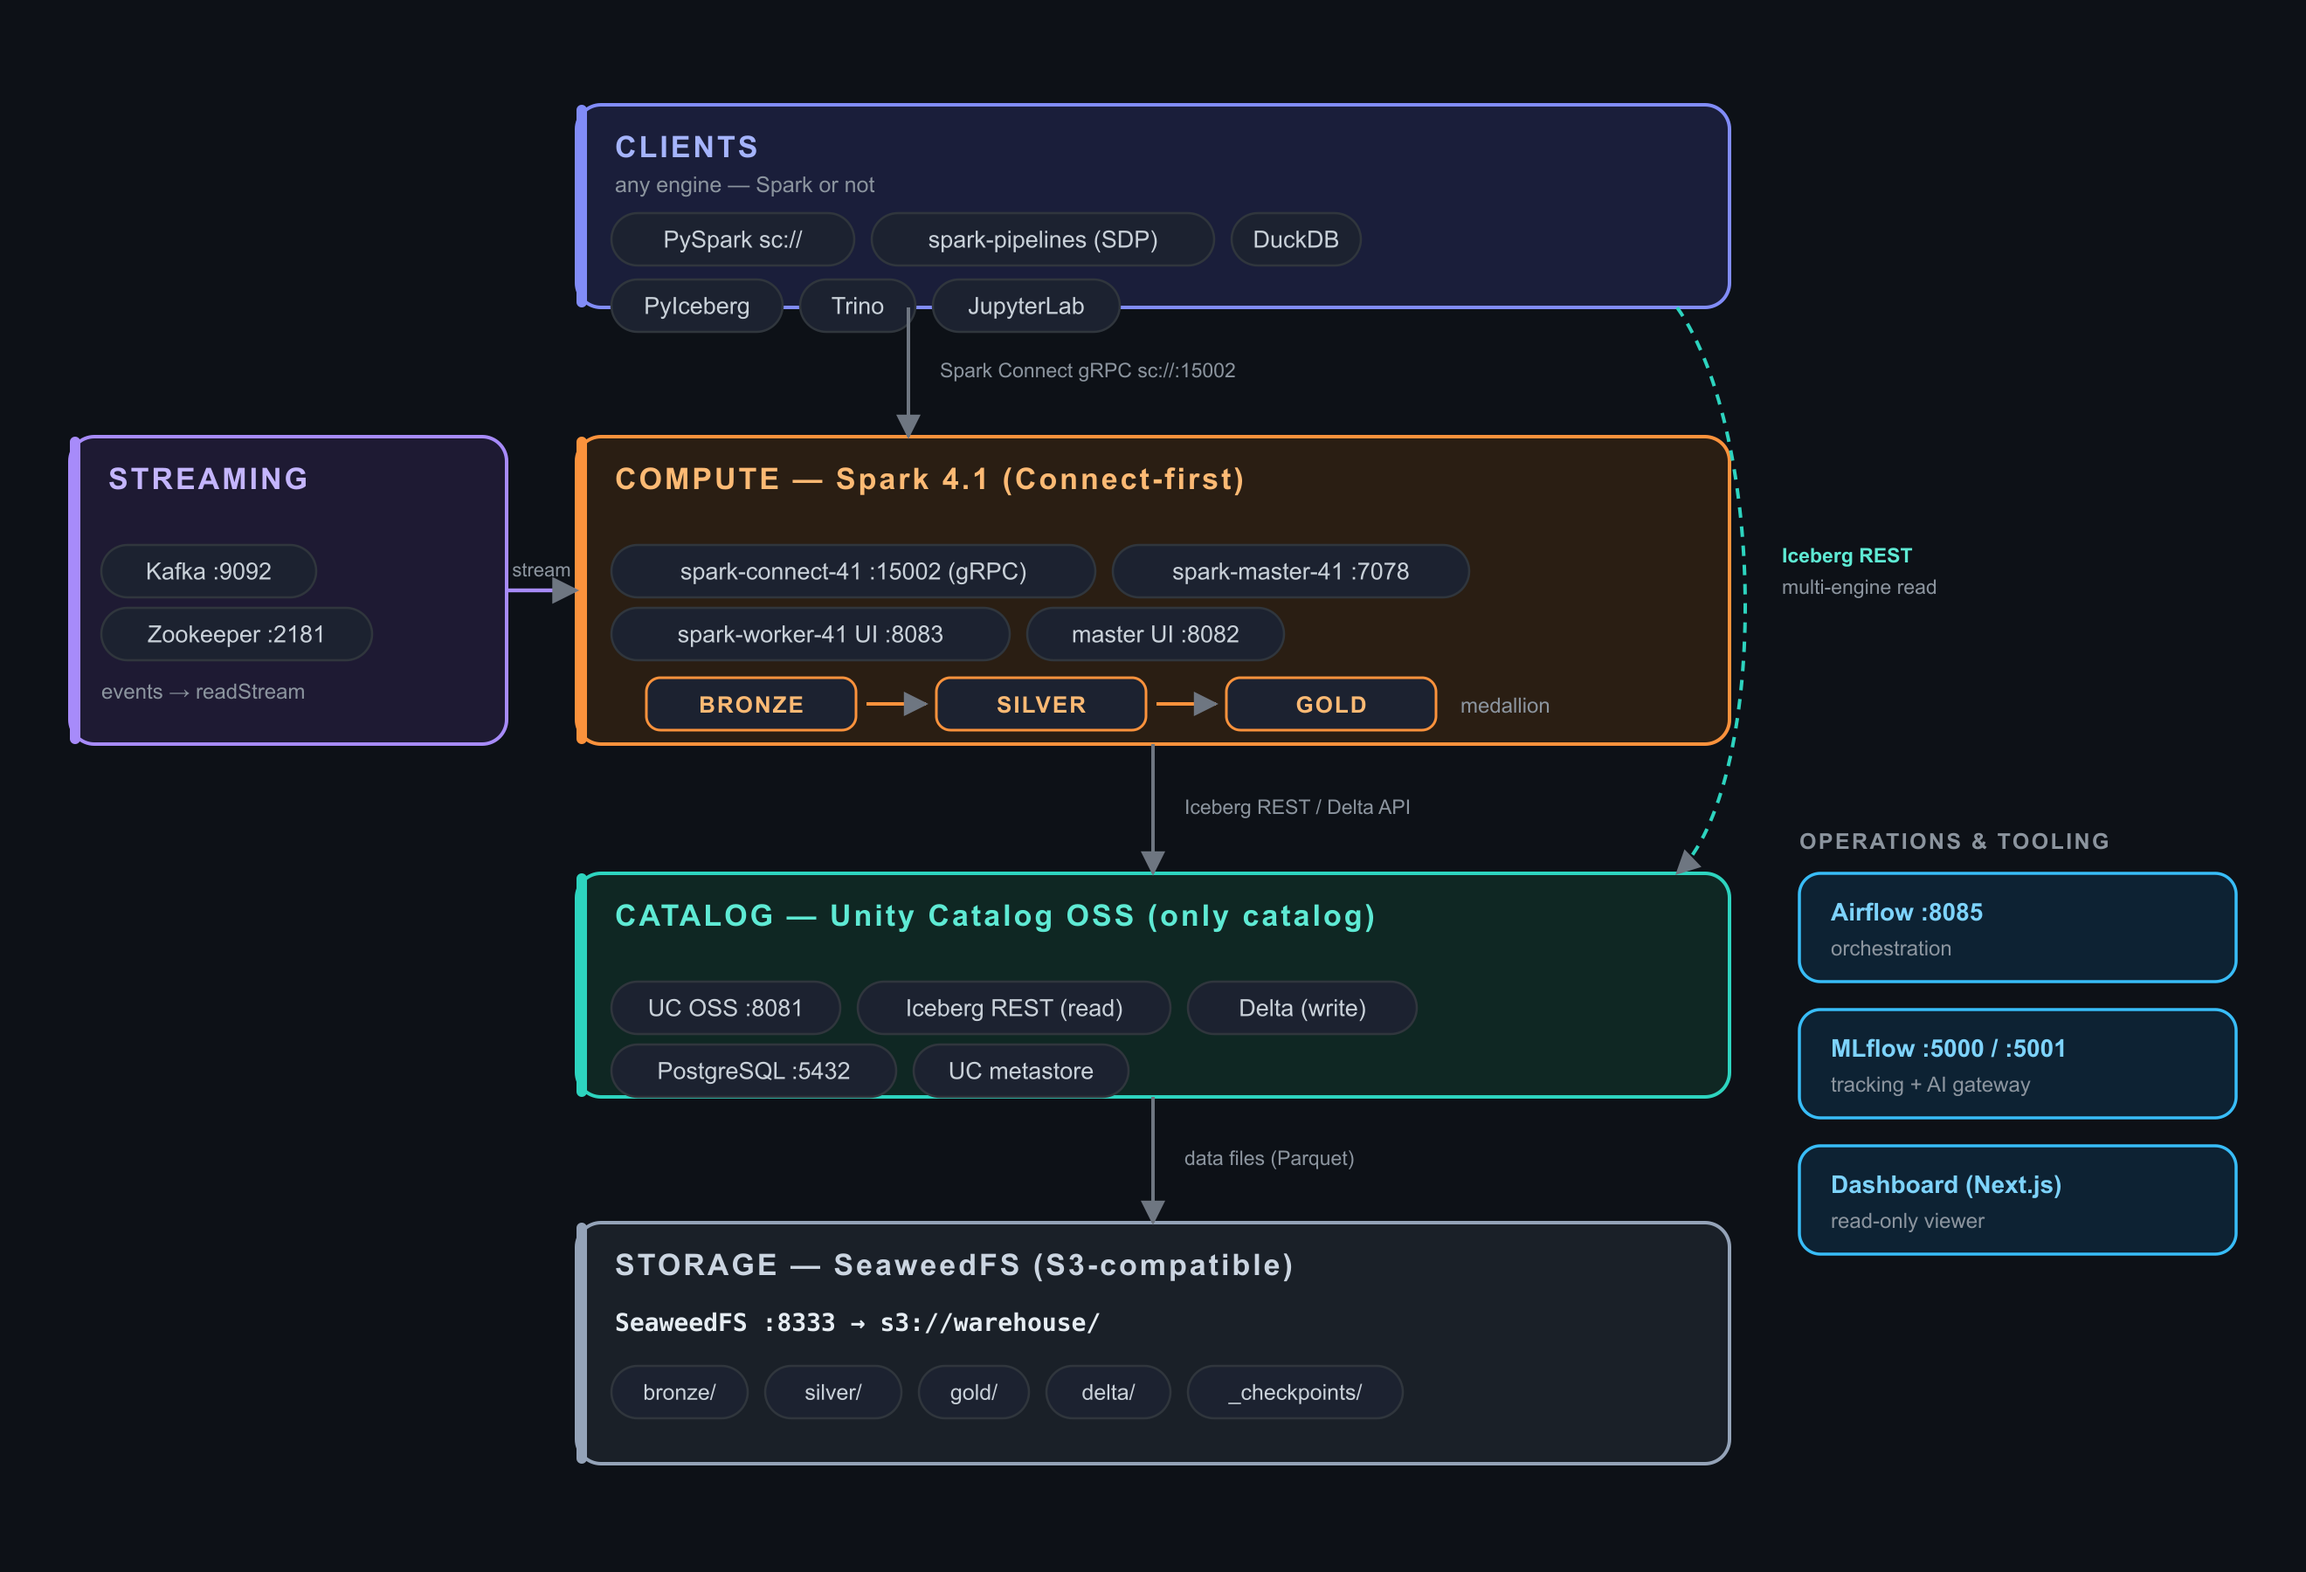
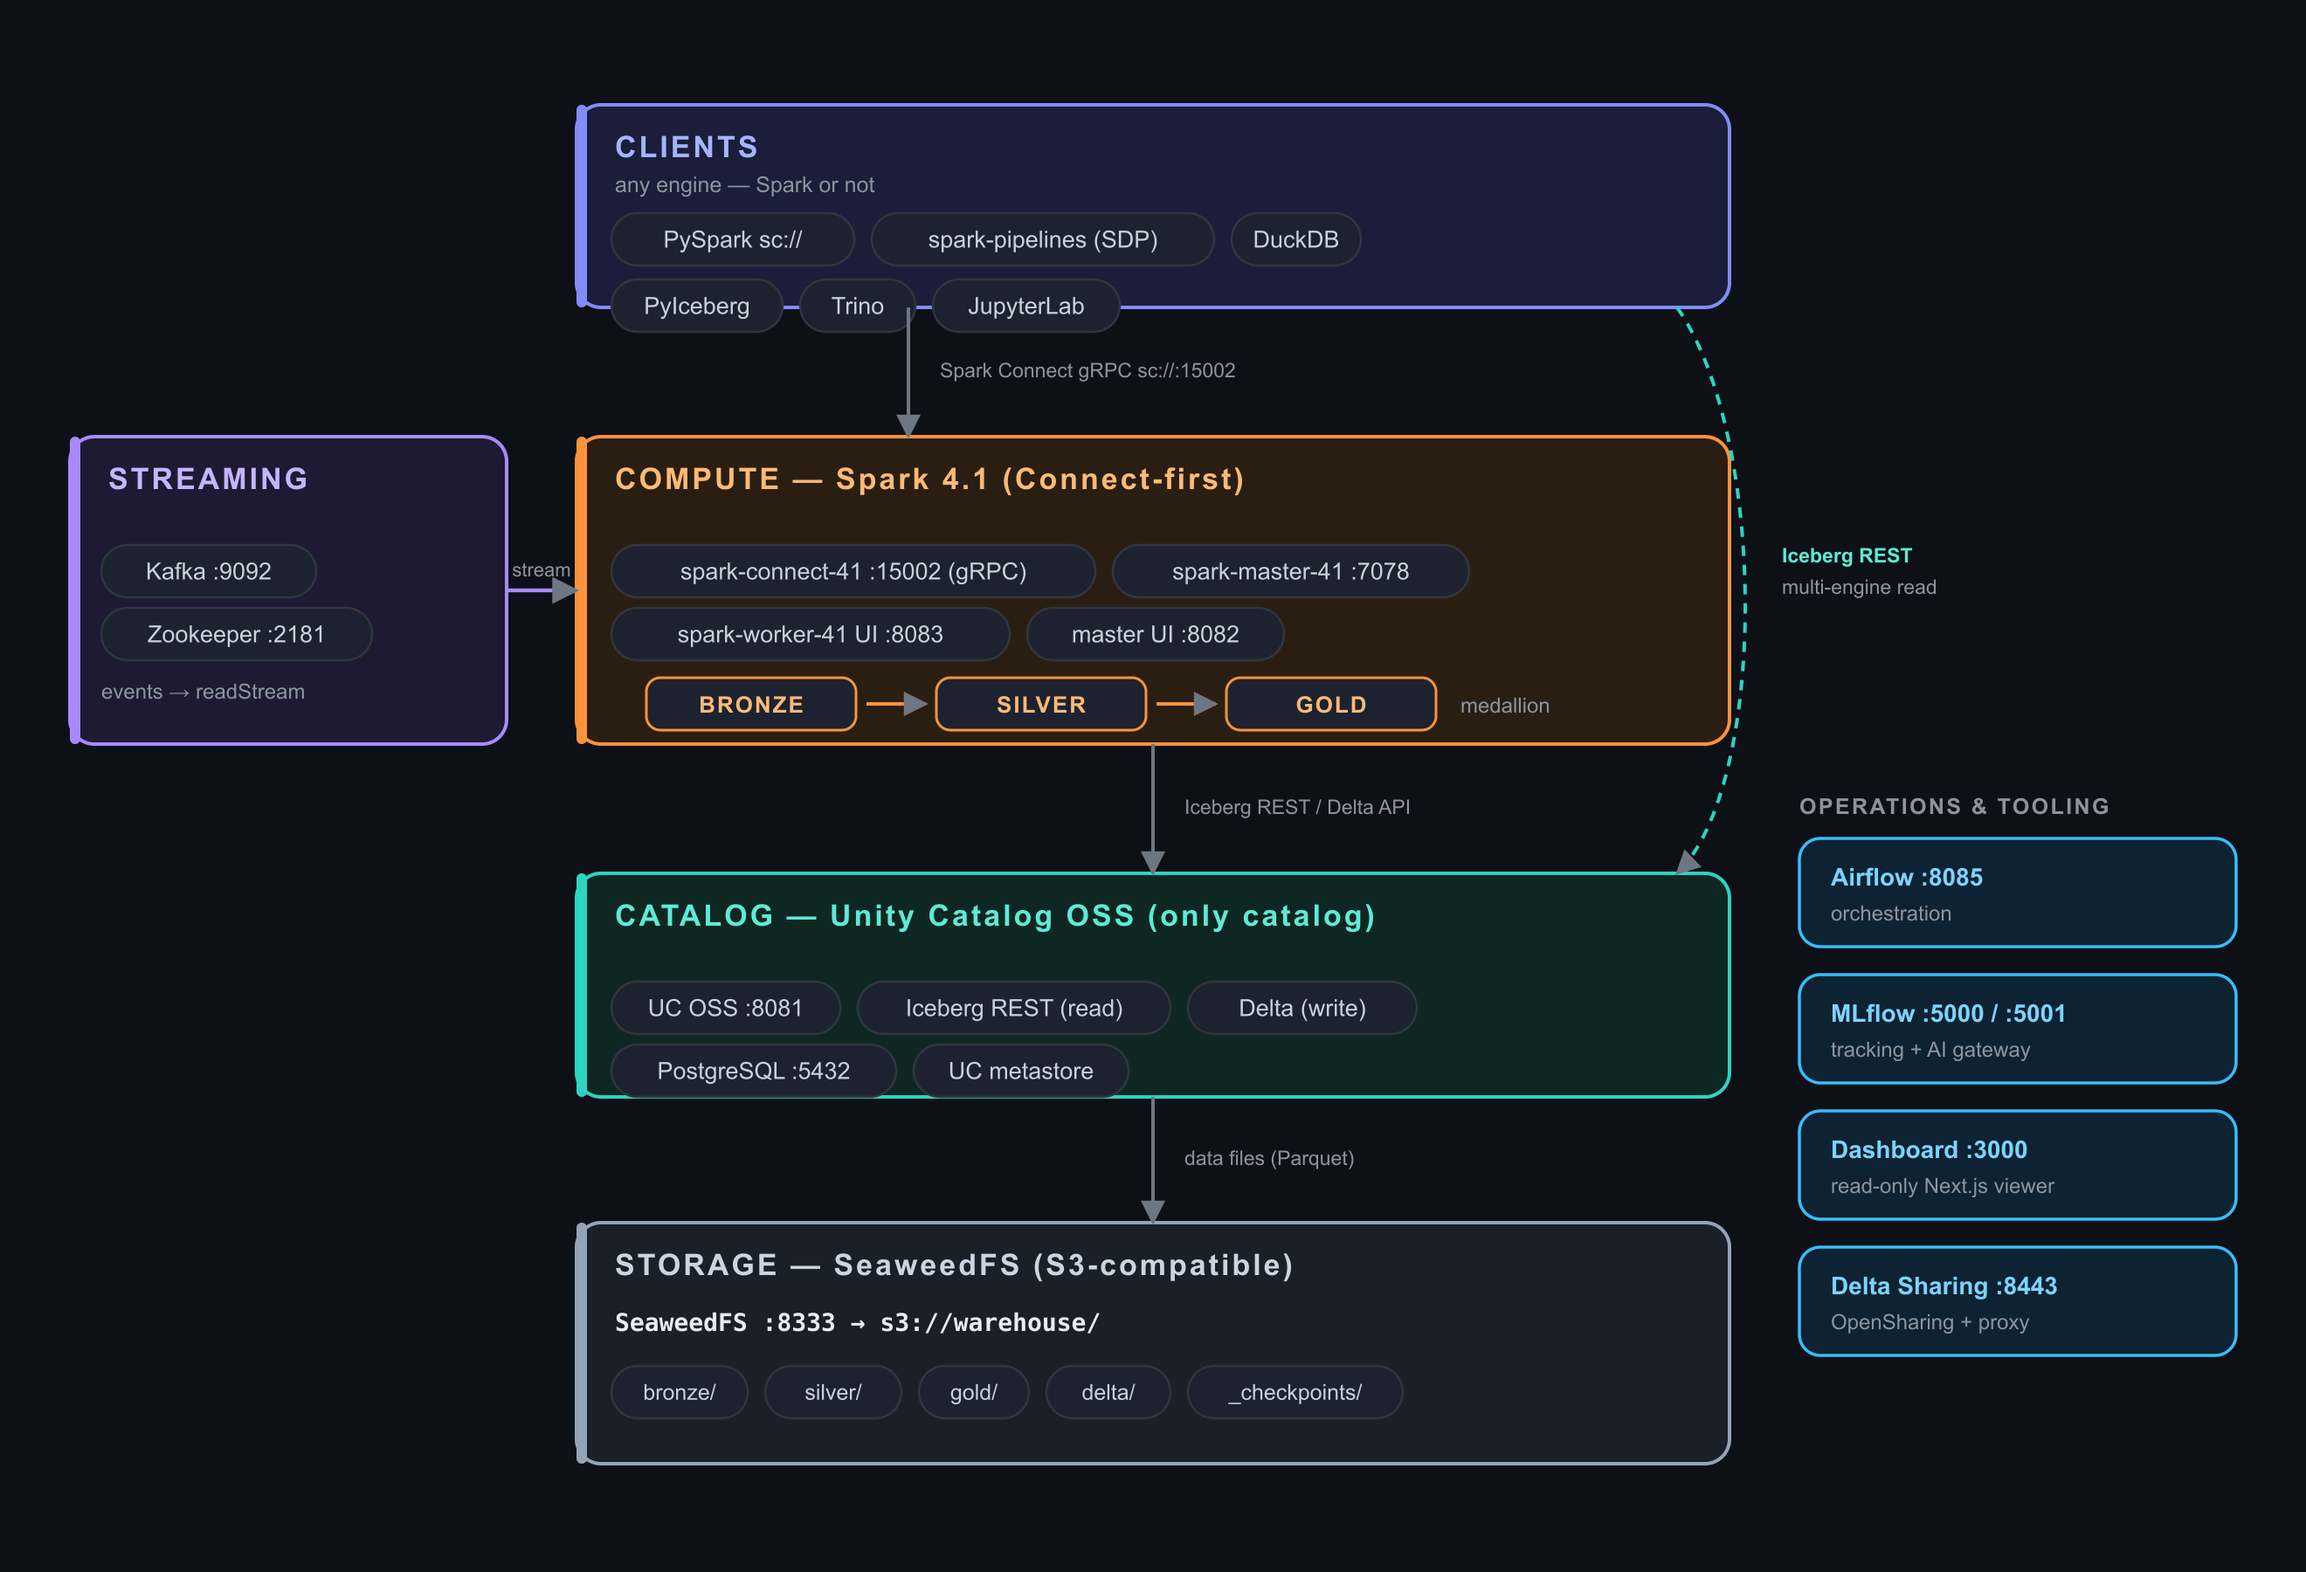
docs: update README prose and content to current reality
The README prose lagged the actual stack. Fix the substance, not just
the diagrams:

- Intro: drop "demos start empty" — ten demos are built out today;
  point at demos/README.md as the catalog source of truth.
- Demos: replace the four-placeholder table with the real catalog
  (10 built + 2 placeholders), each linked, with accurate transports.
- Stack: add Delta Sharing (:8443) and the read-only dashboard (:3000)
  service rows.
- "What's here": add dashboard/, docker/ (Airflow + Delta Sharing
  images), scripts/sharing, the storage compose file, and the full
  CLI verb list (setup/reset/share).
- Add a "Sharing and the dashboard" section and document
  ./lakehouse reset alongside stop.
- Architecture: add the Delta Sharing ops card to the diagram
  (regenerated architecture PNGs) and mention :3000 / :8443 in prose.

Version-number rows (Spark/Airflow) are intentionally left to the
version-bump PR to keep the two changes conflict-free.

Changed region(s): [[0.7765, 0.4978, 0.9939, 0.8711]]

diff --git a/docs/img/_gen_diagrams.py b/docs/img/_gen_diagrams.py
@@ -227,12 +227,13 @@ def architecture(theme_name):
            "middle")
 
     # ---- RIGHT: ops & tooling (aligned beside catalog + storage) ----
-    s.text(rx, 500 - 14, "OPERATIONS & TOOLING", 12.5, t["muted"], "700",
+    s.text(rx, 480 - 14, "OPERATIONS & TOOLING", 12.5, t["muted"], "700",
            spacing="1.2")
     cards = [
-        ("Airflow  :8085", "orchestration", 500),
-        ("MLflow  :5000 / :5001", "tracking + AI gateway", 578),
-        ("Dashboard  (Next.js)", "read-only viewer", 656),
+        ("Airflow  :8085", "orchestration", 480),
+        ("MLflow  :5000 / :5001", "tracking + AI gateway", 558),
+        ("Dashboard  :3000", "read-only Next.js viewer", 636),
+        ("Delta Sharing  :8443", "OpenSharing + proxy", 714),
     ]
     _, ostroke, oink = lay["ops"]
     for label, sub, oy in cards:

diff --git a/README.md b/README.md
@@ -2,7 +2,7 @@
 
 > A composable OSS lakehouse demo platform — Spark 4.1 (Connect-first), Kafka, Airflow, Iceberg, Delta, Unity Catalog OSS, MLflow. Runs locally on Docker. Deploys to AWS. Designed to be set up and torn down by an AI agent.
 
-This repo is the demo-focused sibling of the upstream [lakehouse-stack](https://github.com/lisancao/lakehouse-stack). It strips the platform down to seven OSS services, ships clean AI-skill scaffolding, and uses Unity Catalog OSS as its only catalog. Demos live under `demos/` and start empty — each one follows a fixed README contract so an LLM can run any demo by reading its README.
+This repo is the demo-focused sibling of the upstream [lakehouse-stack](https://github.com/lisancao/lakehouse-stack). It strips the platform down to a fixed set of OSS services, ships clean AI-skill scaffolding, and uses Unity Catalog OSS as its only catalog. Demos live under [`demos/`](demos/) — ten are built out today, each following a fixed README contract so an LLM (or a human) can run any demo by reading its README.
 
 ## Stack
 
@@ -17,6 +17,8 @@ This repo is the demo-focused sibling of the upstream [lakehouse-stack](https://
 | Experiment tracking | MLflow | 3.14 |
 | Object store | SeaweedFS (S3-compatible) | — |
 | Metastore | PostgreSQL | 16 |
+| Data sharing | Delta Sharing server (OpenSharing + proxy, port 8443) | 1.3.10 |
+| Dashboard | Read-only Next.js viewer (port 3000) | — |
 
 All components are Apache-2.0 or Apache-compatible permissive licenses. See [NOTICE](NOTICE).
 
@@ -35,7 +37,7 @@ Four layers, one catalog, one Spark version:
 - **Compute** is Spark 4.1 in Connect-first mode (`spark-connect-41`, master, worker).
 - **Unity Catalog OSS** (`:8081`) is the *only* catalog — Delta on the write path, Iceberg REST as a read-only multi-engine surface. Its metadata lives in **PostgreSQL** (`:5432`).
 - **Storage** is **SeaweedFS** (S3-compatible, `:8333`) under `s3://warehouse/`.
-- Alongside: **Kafka** (`:9092`) feeds the streaming path, and **Airflow** (`:8085`), **MLflow** (`:5000`/`:5001`) and a read-only **dashboard** handle orchestration, tracking, and viewing.
+- Alongside: **Kafka** (`:9092`) feeds the streaming path, and **Airflow** (`:8085`), **MLflow** (`:5000`/`:5001`), a read-only **dashboard** (`:3000`) and an opt-in **Delta Sharing** server (`:8443`) handle orchestration, tracking, viewing, and external sharing.
 
 Full detail — every port, the config keys, and the write-path/read-path split — is in [`docs/architecture.md`](docs/architecture.md).
 
@@ -88,20 +90,30 @@ Spark Declarative Pipelines (SDP) **requires** Connect machinery — `pyspark.pi
 
 ```bash
 ./lakehouse stop all       # safe stop, preserves named volumes
+./lakehouse reset          # start fresh: surgically resets the databases + object store (confirms; --dry-run)
 ```
 
-Full teardown including data: see [`.claude/skills/lakehouse-lifecycle/stop.md`](.claude/skills/lakehouse-lifecycle/stop.md).
+`stop` preserves every named volume (PostgreSQL, SeaweedFS, UC, MLflow, Spark). `reset` is the "start clean" path — it resets the databases and object store without a blunt `docker compose down -v`. Full teardown including data: see [`.claude/skills/lakehouse-lifecycle/stop.md`](.claude/skills/lakehouse-lifecycle/stop.md).
+
+## Sharing and the dashboard
+
+Two optional surfaces sit alongside the core stack:
+
+- **Delta Sharing** — an opt-in [Delta Sharing](https://delta.io/sharing/) server (OpenSharing protocol + proxy) on HTTPS `:8443`, so a Delta table in the lakehouse can be handed to an external recipient without giving them cluster access. Drive it with `./lakehouse share <seed|start|stop|status|profile>`; `share profile` emits a `.share` profile file a recipient points a Delta Sharing client at.
+- **Dashboard** — a read-only Next.js viewer on `:3000` (`docker-compose-dashboard.yml`) that renders catalog contents and demo output. It never writes — it's a window onto the lakehouse, useful when showing someone the result of a demo without dropping them into a notebook.
 
 ## What's here
 
 ```
 open-lakehouse/
-├── lakehouse                       Top-level CLI (start/stop/status/test/migrate)
-├── docker-compose-*.yml            One compose file per service (Spark + Connect, Kafka, UC, MLflow, Airflow, Notebooks)
+├── lakehouse                       Top-level CLI (setup/start/stop/status/test/migrate/reset/share)
+├── docker-compose-*.yml            One compose file per service (Spark + Connect, Kafka, storage, UC, MLflow, Airflow, Notebooks, sharing, dashboard)
 ├── config/                         Spark, Unity Catalog, MLflow, Airflow configs (examples only — live configs are gitignored)
-├── demos/                          Four demo slots (see below)
-├── docs/                           Human-facing documentation
-├── scripts/                        Helper scripts (download-jars, testdata, connectivity smoke tests)
+├── demos/                          Runnable demos + the _template contract (see below)
+├── dashboard/                      Read-only Next.js viewer for the lakehouse (:3000)
+├── docker/                         Service Dockerfiles (Airflow image, Delta Sharing server)
+├── docs/                           Human-facing documentation + architecture diagrams
+├── scripts/                        Helper scripts (download-jars, testdata, sharing, connectivity smoke tests)
 ├── tests/                          pytest unit + integration
 ├── terraform/                      AWS self-hosted deployment (EMR + RDS + S3 + UC)
 ├── terraform-databricks/           Databricks-managed destination
@@ -112,14 +124,22 @@ open-lakehouse/
 
 ## Demos
 
-The `demos/` directory ships with these four placeholders (Connect-first by default):
+Ten demos are built out and runnable today (Connect-first by default); two slots are placeholders that get filled demo-by-demo, never fabricated. The full catalog with per-demo status lives in [`demos/README.md`](demos/README.md).
 
 | Demo | Transport | What it shows |
 |------|-----------|----------------|
-| [`sdp-medallion/`](demos/sdp-medallion/) | `spark-pipelines` (Connect-backed) | Bronze → Silver → Gold via Spark Declarative Pipelines |
-| [`unity-catalog-multi-engine/`](demos/unity-catalog-multi-engine/) | Spark Connect + DuckDB | One catalog, multiple engines reading the same Iceberg table |
-| [`realtime-mode/`](demos/realtime-mode/) | Spark Connect (Structured Streaming) | Kafka → Iceberg with watermarked dedup |
-| [`local-mode-spark/`](demos/local-mode-spark/) | Local (no cluster) — **not yet implemented** | In-process SparkSession; placeholder for `--spark-local` |
+| [`quick-start/`](demos/quick-start/) | Spark Connect | First governed Delta table via the three-level namespace, query, and an ACID update — the onboarding path |
+| [`sdp-medallion/`](demos/sdp-medallion/) | `spark-pipelines` | Bronze → Silver → Gold via Spark Declarative Pipelines, materialized as Delta in UC |
+| [`sdp-imperative-to-declarative/`](demos/sdp-imperative-to-declarative/) | Connect + `spark-pipelines` | The same medallion written twice — imperative PySpark vs SDP — to show what SDP removes |
+| [`sdp-streaming-batch-sql/`](demos/sdp-streaming-batch-sql/) | `spark-pipelines` | `CREATE STREAMING TABLE` vs `CREATE MATERIALIZED VIEW` — streaming vs batch semantics, in SQL |
+| [`sdp-cli-lifecycle/`](demos/sdp-cli-lifecycle/) | `spark-pipelines` | The `spark-pipelines` developer loop — `init`, `dry-run`, `run` |
+| [`delta-deep-dive/`](demos/delta-deep-dive/) | Spark Connect | Delta ACID DML, time travel, schema evolution, and OPTIMIZE |
+| [`unity-catalog/`](demos/unity-catalog/) | Spark Connect | UC three-level namespace, external Delta registration, metadata via SQL + REST |
+| [`analytics/`](demos/analytics/) | Spark Connect | Revenue / regional / window-function SQL on a governed table, with charts to PNG |
+| [`mlflow-tracking/`](demos/mlflow-tracking/) | Spark Connect + MLflow | Experiment tracking, run comparison, Model Registry, and a `champion` alias |
+| [`realtime-mode/`](demos/realtime-mode/) | `spark-submit` (Structured Streaming) | Kafka → Kafka stateless guardrail in Real-Time Mode, dynamic topic routing |
+| [`unity-catalog-multi-engine/`](demos/unity-catalog-multi-engine/) | Spark Connect + DuckDB | *Placeholder* — one catalog, multiple engines reading the same table |
+| [`local-mode-spark/`](demos/local-mode-spark/) | Local (no cluster) | *Not yet implemented* — in-process SparkSession behind the `--spark-local` flag |
 
 Each follows the [`demos/_template/`](demos/_template/) README contract (Purpose / Prereqs / Run / Expected output / Teardown). To scaffold a new demo:
 
